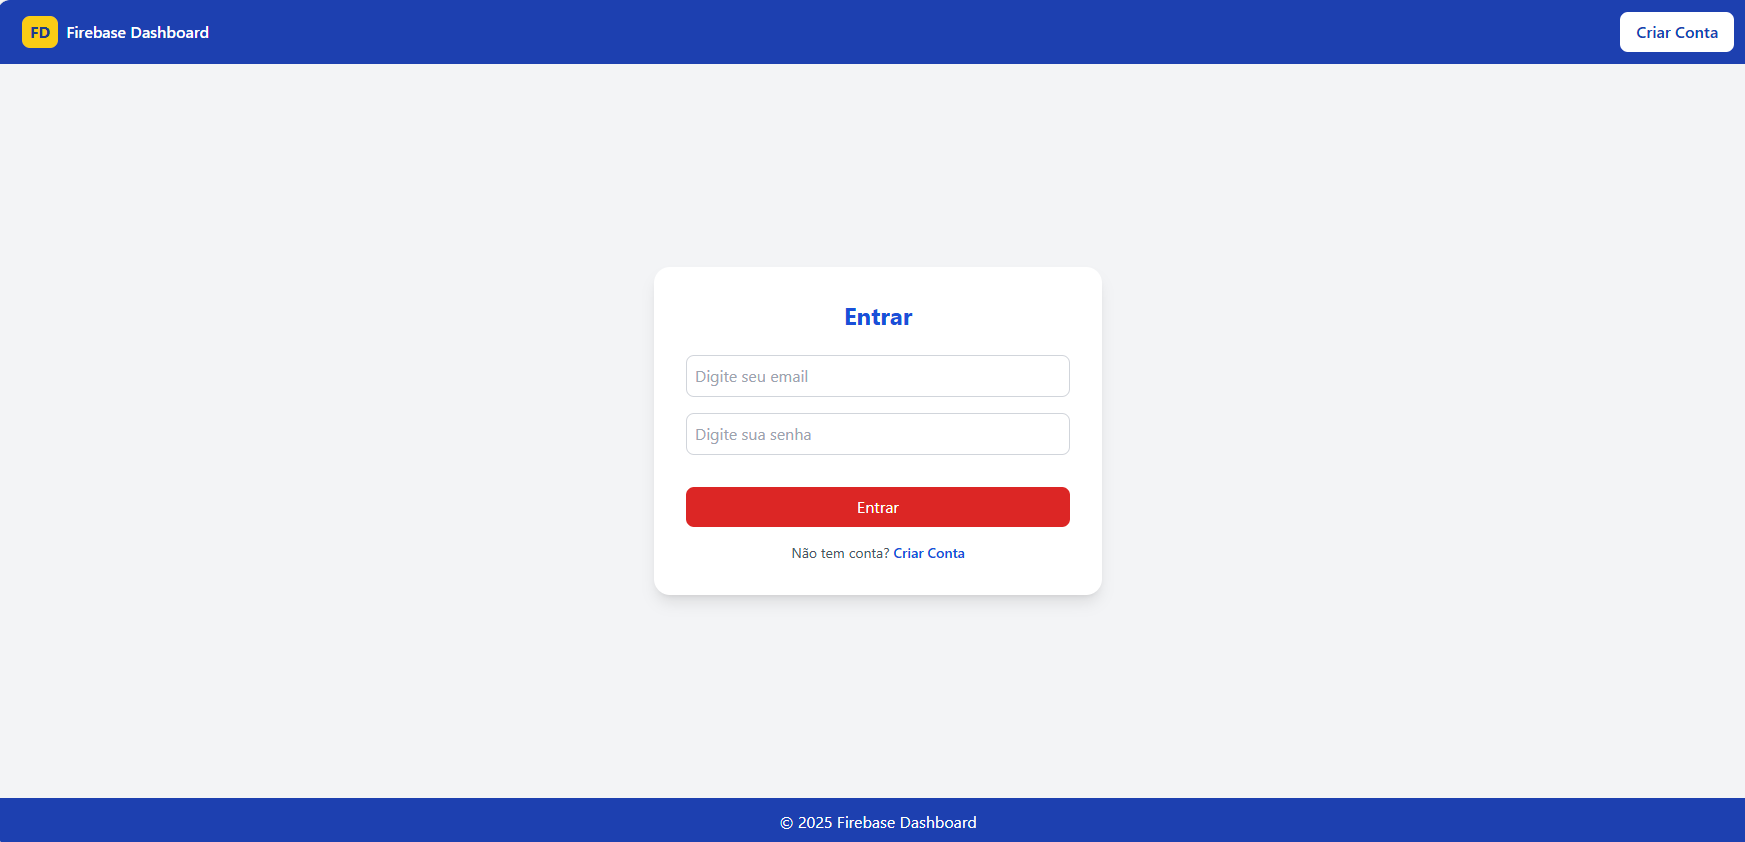
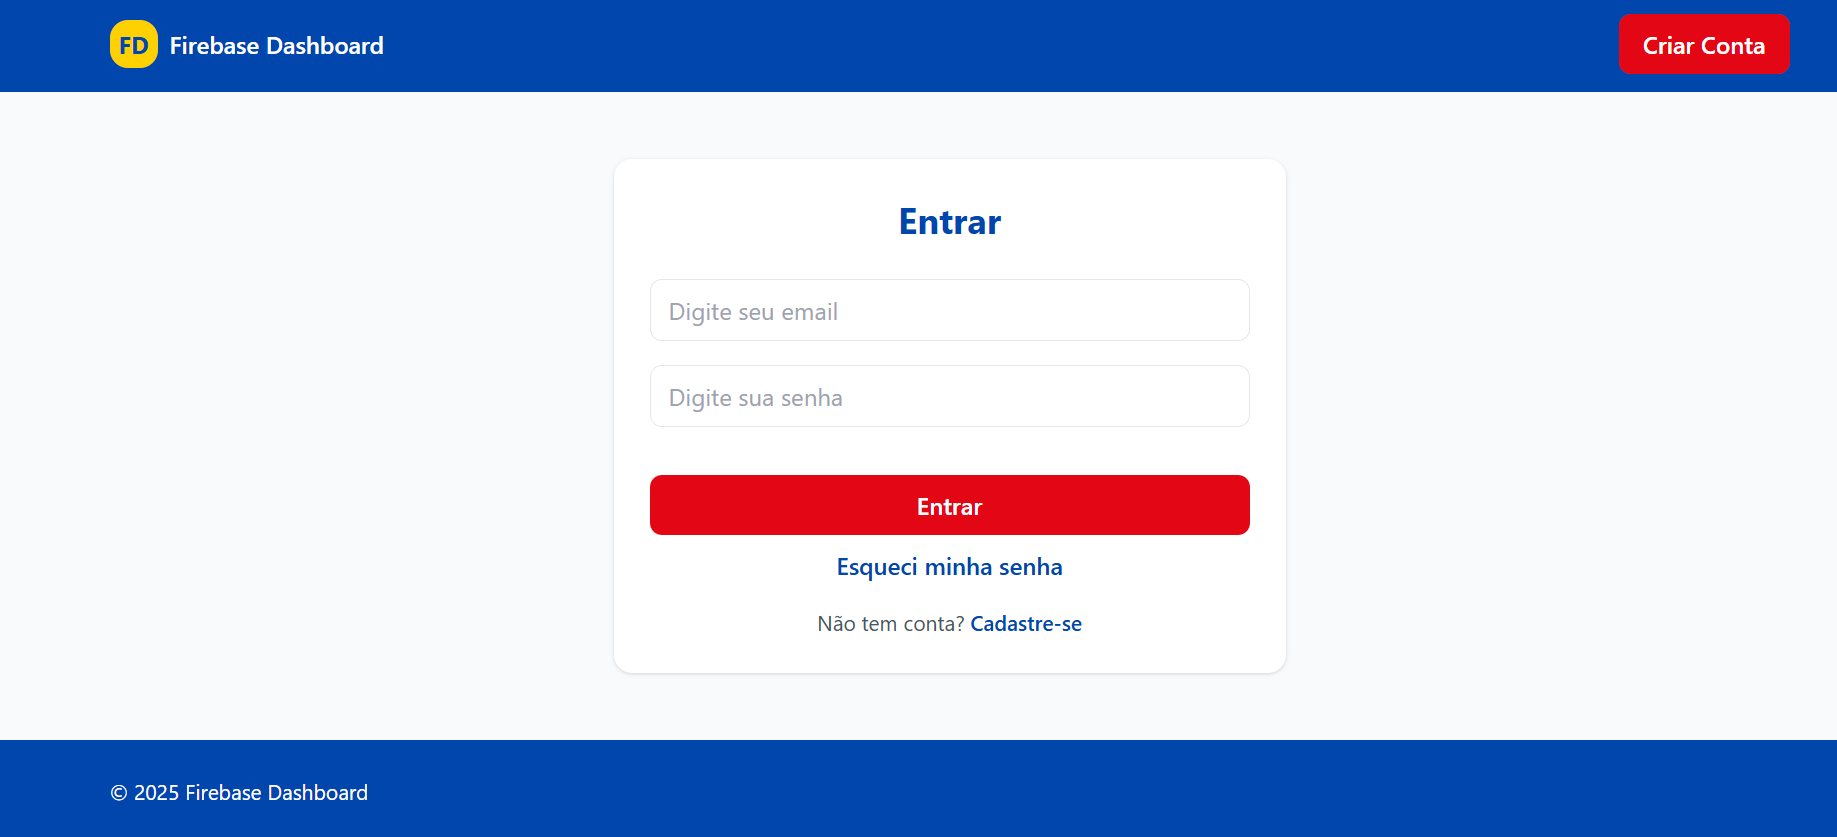
recuperação de senha

diff --git a/reset.html b/reset.html
@@ -3,7 +3,7 @@
 <head>
   <meta charset="UTF-8">
   <meta name="viewport" content="width=device-width, initial-scale=1.0">
-  <title>Login - Firebase Dashboard</title>
+  <title>Recuperar Senha - Firebase Dashboard</title>
   <script src="https://cdn.tailwindcss.com"></script>
   <script>
     tailwind.config = {
@@ -28,32 +28,24 @@
         <span class="inline-flex h-8 w-8 items-center justify-center rounded-xl bg-bahiaYellow text-bahiaBlue font-bold">FD</span>
         <span>Firebase Dashboard</span>
       </a>
-      <a href="./register.html"
-         class="rounded-lg bg-bahiaRed px-3 sm:px-4 py-2 font-semibold text-white hover:bg-bahiaYellow hover:text-bahiaBlue transition">
-        Criar Conta
+      <a href="./login.html"
+         class="rounded-lg bg-bahiaBlue px-3 sm:px-4 py-2 font-semibold text-white hover:bg-bahiaYellow hover:text-bahiaBlue transition">
+        Voltar ao Login
       </a>
     </div>
   </header>
 
-  <!-- Form -->
+  <!-- Reset Form -->
   <main class="flex-grow flex items-center justify-center px-4 py-10">
     <div class="w-full max-w-md bg-white p-6 rounded-xl shadow">
-      <h1 class="text-2xl font-bold text-center text-bahiaBlue">Entrar</h1>
-      <form id="loginForm" class="mt-6 space-y-4">
-        <input type="email" id="email" placeholder="Digite seu email" required class="w-full border rounded-lg px-3 py-2">
-        <input type="password" id="password" placeholder="Digite sua senha" required class="w-full border rounded-lg px-3 py-2">
+      <h1 class="text-2xl font-bold text-center text-bahiaBlue">Recuperar Senha</h1>
+      <form id="resetForm" class="mt-6 space-y-4">
+        <input type="email" id="resetEmail" placeholder="Digite seu email" required class="w-full border rounded-lg px-3 py-2">
         <p id="feedback" class="text-center text-sm"></p>
-        <button type="submit" class="w-full bg-bahiaRed text-white py-2 rounded-lg font-semibold hover:bg-bahiaYellow hover:text-bahiaBlue transition">Entrar</button>
+        <button type="submit" class="w-full bg-bahiaRed text-white py-2 rounded-lg font-semibold hover:bg-bahiaYellow hover:text-bahiaBlue transition">
+          Enviar Link de Recuperação
+        </button>
       </form>
-      <p class="mt-2 text-center">
-        <a href="reset.html" class="text-bahiaBlue font-semibold hover:underline">
-          Esqueci minha senha
-        </a>
-      </p>
-      <p class="mt-4 text-center text-sm text-gray-600">
-        Não tem conta?
-        <a href="register.html" class="text-bahiaBlue font-semibold hover:underline">Cadastre-se</a>
-      </p>
     </div>
   </main>
 
@@ -67,6 +59,6 @@
   <script>
     document.getElementById('year').textContent = new Date().getFullYear();
   </script>
-  <script type="module" src="./js/login.js"></script>
+  <script type="module" src="./js/reset.js"></script>
 </body>
 </html>

diff --git a/js/reset.js b/js/reset.js
@@ -1,0 +1,26 @@
+import { initializeApp } from "https://www.gstatic.com/firebasejs/11.0.1/firebase-app.js";
+import { getAuth, sendPasswordResetEmail } from "https://www.gstatic.com/firebasejs/11.0.1/firebase-auth.js";
+import firebaseConfig from "../config.js";
+
+// Inicializa Firebase
+const app = initializeApp(firebaseConfig);
+const auth = getAuth(app);
+
+// Seletores
+const form = document.getElementById("resetForm");
+const feedback = document.getElementById("feedback");
+
+// Evento de submit
+form.addEventListener("submit", async (e) => {
+  e.preventDefault();
+  const email = document.getElementById("resetEmail").value.trim();
+
+  try {
+    await sendPasswordResetEmail(auth, email);
+    feedback.textContent = "✅ Email de recuperação enviado!";
+    feedback.className = "text-green-600 text-center text-sm";
+  } catch (err) {
+    feedback.textContent = "❌ Erro: " + (err.code || err.message);
+    feedback.className = "text-red-600 text-center text-sm";
+  }
+});

diff --git a/README.md b/README.md
@@ -85,6 +85,15 @@ Este projeto utiliza um **.gitignore** para evitar que chaves sensíveis (`confi
 ### 🔑 Tela de Login  
 ![Login](/assets/images/tela_login.png)  
 
+### 🔑 Tela de recuperar senha  
+![Recuperar Senha](/assets/images/tela_recupera_senha.png)  
+
+<p align="center"><i>
+O Firebase já traz essa funcionalidade pronta via método.<br>
+Isso dispara um email automático para o usuário redefinir a senha.<br>
+Você não precisa criar tela de redefinição, só uma tela simples( já criada reset.html) onde ele digita o email.
+</i></p>
+
 ### 📝 Tela de Cadastro  
 ![Cadastro](/assets/images/tela_cadastro.png)  
 
